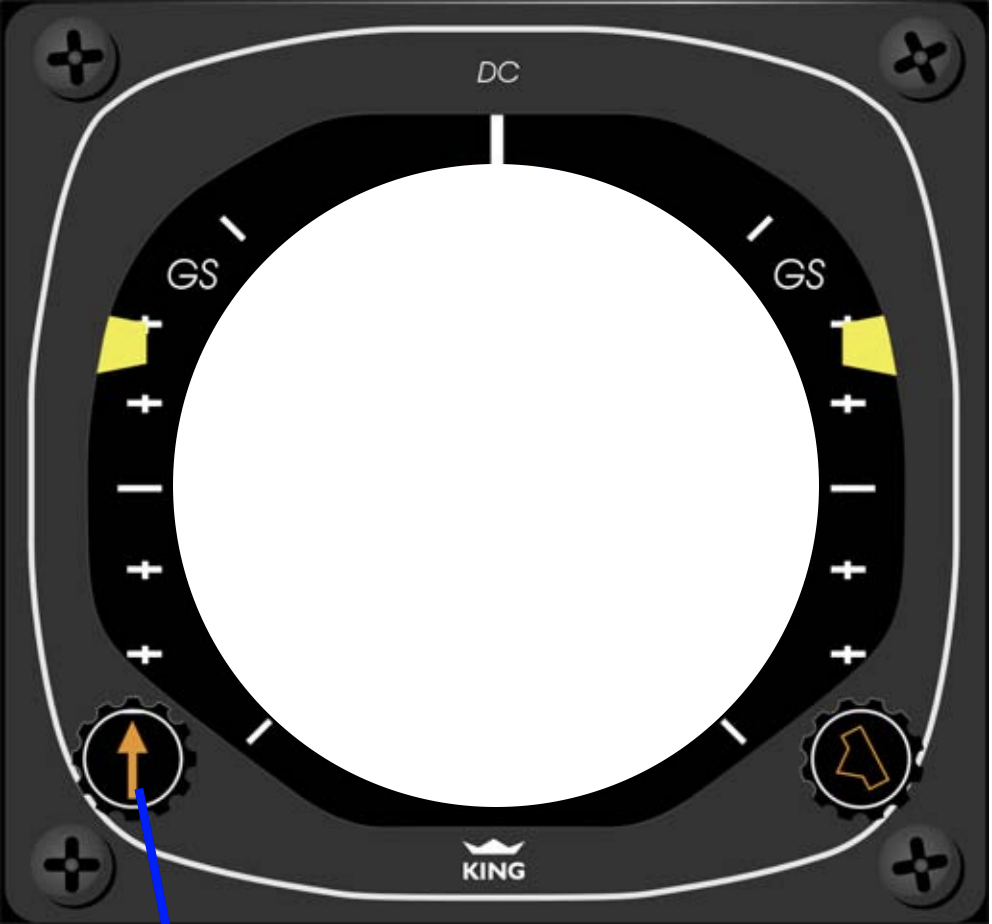
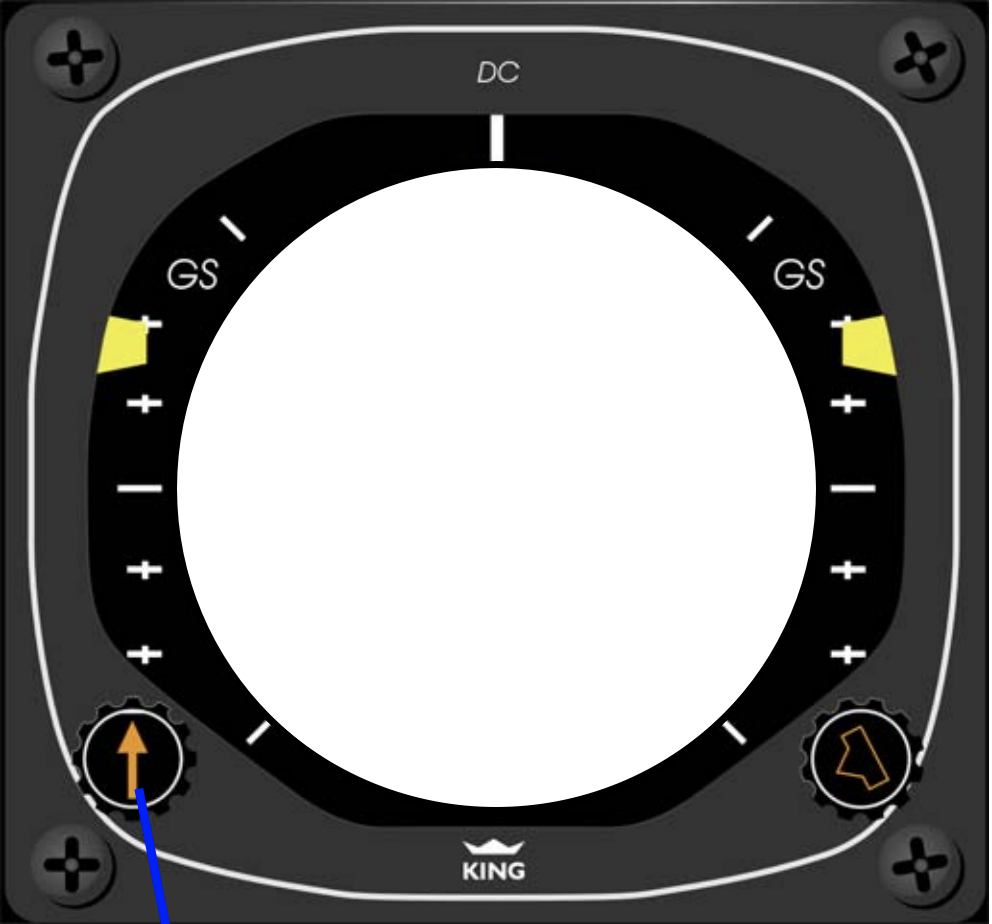
HSI basically working

diff --git a/Python HW Link/test_py_image.py b/Python HW Link/test_py_image.py
@@ -27,9 +27,18 @@ class SimpleApp(object):
             
             tkimage = ImageTk.PhotoImage(image.rotate(angle))
             tkimage2 = ImageTk.PhotoImage(image2)
-            canvas_obj = self.canvas.create_image(500, 500, image=tkimage)
+            canvas_obj = self.canvas.create_image(500, 526, image=tkimage)
             canvas_obj = self.canvas.create_image(500,500, image=tkimage2)
-            canvas_obj = self.canvas.create_oval(500,500,550,550,fill='yellow')
+
+            circlediameter = 20
+            xcentreline = 490
+            x=xcentreline - (circlediameter/2)
+            xwidth = circlediameter
+            
+            ycentreline = 525
+            y=ycentreline - (circlediameter/2)
+            yheight=circlediameter
+            canvas_obj = self.canvas.create_oval(x,y,x+xwidth,y+yheight,fill='yellow')
           
             # canvas_obj = self.canvas.create_oval(100,100,400,400,fill='green')
 
@@ -38,9 +47,9 @@ class SimpleApp(object):
             yield
 
             self.canvas.delete(canvas_obj)
-            angle += 5
+            angle += 1
             angle %= 360
 
 root = tk.Tk()
-app = SimpleApp(root, 'HSI copy 1.png')
+app = SimpleApp(root, 'HSI copy 2.png')
 root.mainloop()
